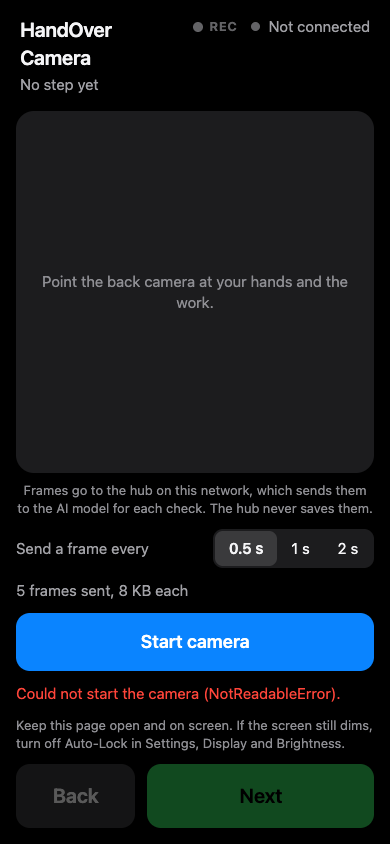
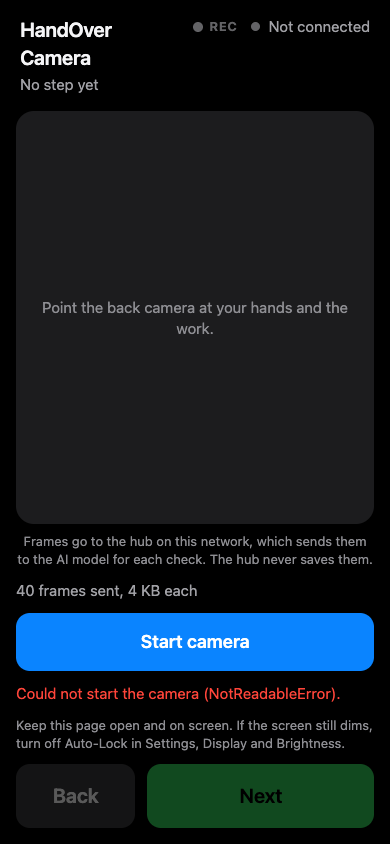
Capture: about 15 fps at long side 640 and JPEG 0.5, drop frames while the socket is busy, fps in the stats line, hide the hint over the live preview

Changed region(s): [[0.0308, 0.5545, 0.9846, 0.7085], [0.0923, 0.3081, 0.8923, 0.4005]]

diff --git a/server/static/capture.html b/server/static/capture.html
@@ -10,6 +10,8 @@
 <style>
   :root { color-scheme: dark; }
   * { box-sizing: border-box; -webkit-tap-highlight-color: transparent; }
+  /* Classes below set display, which would otherwise beat the hidden attribute. */
+  [hidden] { display: none !important; }
   html, body { margin: 0; height: 100%; background: #000; color: #f5f5f7;
     font: 17px/1.4 -apple-system, BlinkMacSystemFont, "SF Pro Text", "Helvetica Neue", sans-serif; }
   body { display: flex; flex-direction: column;
@@ -51,11 +53,6 @@
   .nav button:active { opacity: 0.8; }
   .nav button:disabled { opacity: 0.35; }
   .row { display: flex; align-items: center; justify-content: space-between; gap: 12px; }
-  .seg { display: inline-flex; background: #1c1c1e; border-radius: 10px; padding: 2px; }
-  .seg button { appearance: none; border: 0; background: transparent; color: #f5f5f7; font: inherit;
-    font-size: 15px; padding: 7px 14px; border-radius: 8px; }
-  .seg button.sel { background: #3a3a3c; font-weight: 600; }
-  .label { color: #a1a1a6; font-size: 15px; }
   .stats { color: #a1a1a6; font-size: 15px; font-variant-numeric: tabular-nums; }
   .note { color: #8e8e93; font-size: 13px; margin: 0; }
   .err { color: #ff453a; font-size: 15px; margin: 0; }
@@ -86,14 +83,6 @@
   <p id="mistake" class="mistake" role="alert" hidden></p>
   <p id="idle" class="idle" hidden>Not sending. Check the hub address and network.</p>
   <div class="row">
-    <span class="label">Send a frame every</span>
-    <div class="seg" id="seg">
-      <button data-ms="500" class="sel">0.5 s</button>
-      <button data-ms="1000">1 s</button>
-      <button data-ms="2000">2 s</button>
-    </div>
-  </div>
-  <div class="row">
     <span class="stats" id="stats">0 frames sent</span>
     <span class="stats" id="wake"></span>
   </div>
@@ -114,9 +103,10 @@
   const rec = $("rec"), idleEl = $("idle"), camEl = $("cam"), stepEl = $("step"), stage = $("stage");
   const nextBtn = $("next"), backBtn = $("back"), mistakeEl = $("mistake");
   const wsUrl = `${location.protocol === "https:" ? "wss" : "ws"}://${location.host}/ws/camera`;
-  // Frames are scaled so the long side is at most MAX_SIDE before JPEG encoding:
-  // fewer bytes to upload and less for the hub to decode.
-  const MAX_SIDE = 960, JPEG_QUALITY = 0.7;
+  // About 15 small frames a second: smooth on the learn screen, light on the network.
+  // The long side is at most MAX_SIDE before JPEG encoding: fewer bytes to upload
+  // and less for the hub to decode.
+  const FPS = 15, MAX_SIDE = 640, JPEG_QUALITY = 0.5;
   const bitmapPath = typeof createImageBitmap === "function" && typeof OffscreenCanvas === "function"
     && typeof OffscreenCanvas.prototype.convertToBlob === "function";
   let offscreen = null;
@@ -152,7 +142,7 @@
   const STATUS_WORDS = { watching: "Watching", checking: "Watching", verified: "Verified", manual: "Manual step", done: "Done" };
 
   let stream = null, ws = null, timer = null, reconnectTimer = null, wakeLock = null, flashTimer = null;
-  let running = false, sent = 0, skipped = 0, sentBytes = 0, intervalMs = 500, encoding = false;
+  let running = false, sent = 0, skipped = 0, sentBytes = 0, encoding = false, sentTimes = [];
   let backoff = BACKOFF_MIN, lastSentAt = 0, helloSent = false, hubState = null;
 
   function setConn(state, text) {
@@ -161,7 +151,10 @@
   }
   function showError(text) { err.textContent = text; err.hidden = !text; }
   function updateStats() {
-    stats.textContent = `${sent} frame${sent === 1 ? "" : "s"} sent` + (skipped ? `, ${skipped} skipped` : "")
+    const now = Date.now();
+    while (sentTimes.length && now - sentTimes[0] > 1000) sentTimes.shift();
+    const fps = running && sent ? `${sentTimes.length} fps, ` : "";
+    stats.textContent = fps + `${sent} frame${sent === 1 ? "" : "s"} sent` + (skipped ? `, ${skipped} skipped` : "")
       + (sent ? `, ${Math.round(sentBytes / sent / 1024)} KB each` : "");
   }
   function setCam(active) {
@@ -177,7 +170,7 @@
     rec.classList.toggle("live", !!(fresh && socketOpen()));
     idleEl.hidden = !(running && Date.now() - lastSentAt >= IDLE_MS);
   }
-  setInterval(updateSending, 1000);
+  setInterval(() => { updateSending(); updateStats(); }, 1000);
 
   function updateNav() {
     const ok = running && helloSent && socketOpen() && !!hubState && hubState.total > 0;
@@ -303,13 +296,13 @@
     encoding = false;
     if (!blob || !socketOpen() || !helloSent || ws.bufferedAmount > 0) return;
     ws.send(blob);
-    sent++; sentBytes += blob.size; lastSentAt = Date.now();
+    sent++; sentBytes += blob.size; lastSentAt = Date.now(); sentTimes.push(lastSentAt);
     updateStats(); updateSending();
   }
 
   function restartTimer() {
     clearInterval(timer);
-    if (running) timer = setInterval(sendFrame, intervalMs);
+    if (running) timer = setInterval(sendFrame, Math.round(1000 / FPS));
   }
 
   async function requestWakeLock() {
@@ -400,7 +393,7 @@
     running = false;
     clearInterval(timer); clearTimeout(reconnectTimer);
     if (ws) { const s = ws; ws = null; try { s.close(); } catch (_) {} }
-    helloSent = false; hubState = null; lastSentAt = 0;
+    helloSent = false; hubState = null; lastSentAt = 0; sentTimes = [];
     if (stream) { stream.getTracks().forEach((t) => t.stop()); stream = null; }
     clearTimeout(muteTimer);
     video.srcObject = null;
@@ -423,14 +416,6 @@
   backBtn.addEventListener("click", () => {
     if (backBtn.disabled || !hubState) return;
     sendJson({ type: "back", from: hubState.step });
-  });
-
-  $("seg").addEventListener("click", (e) => {
-    const b = e.target.closest("button[data-ms]");
-    if (!b) return;
-    intervalMs = Number(b.dataset.ms);
-    for (const x of $("seg").querySelectorAll("button")) x.classList.toggle("sel", x === b);
-    restartTimer();
   });
 
   // Wake locks drop when the page is hidden; take it again on return.
